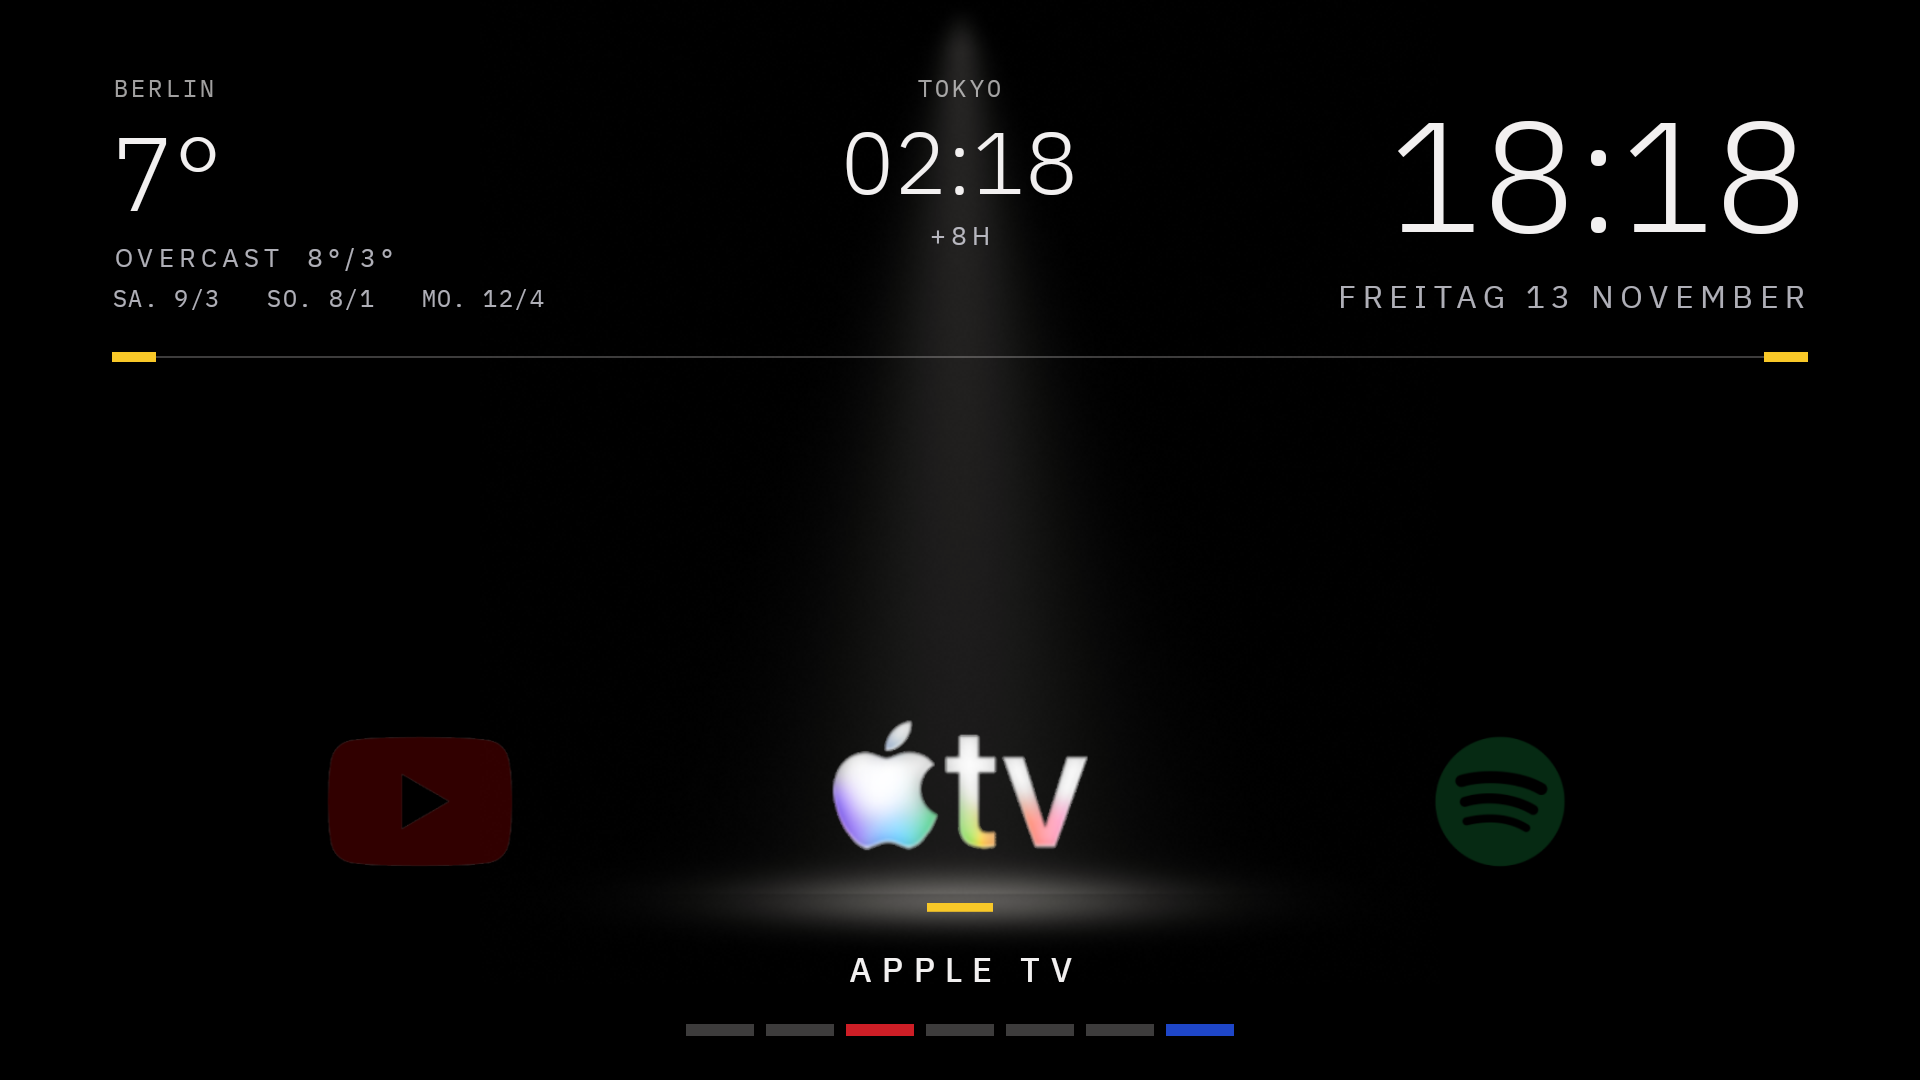
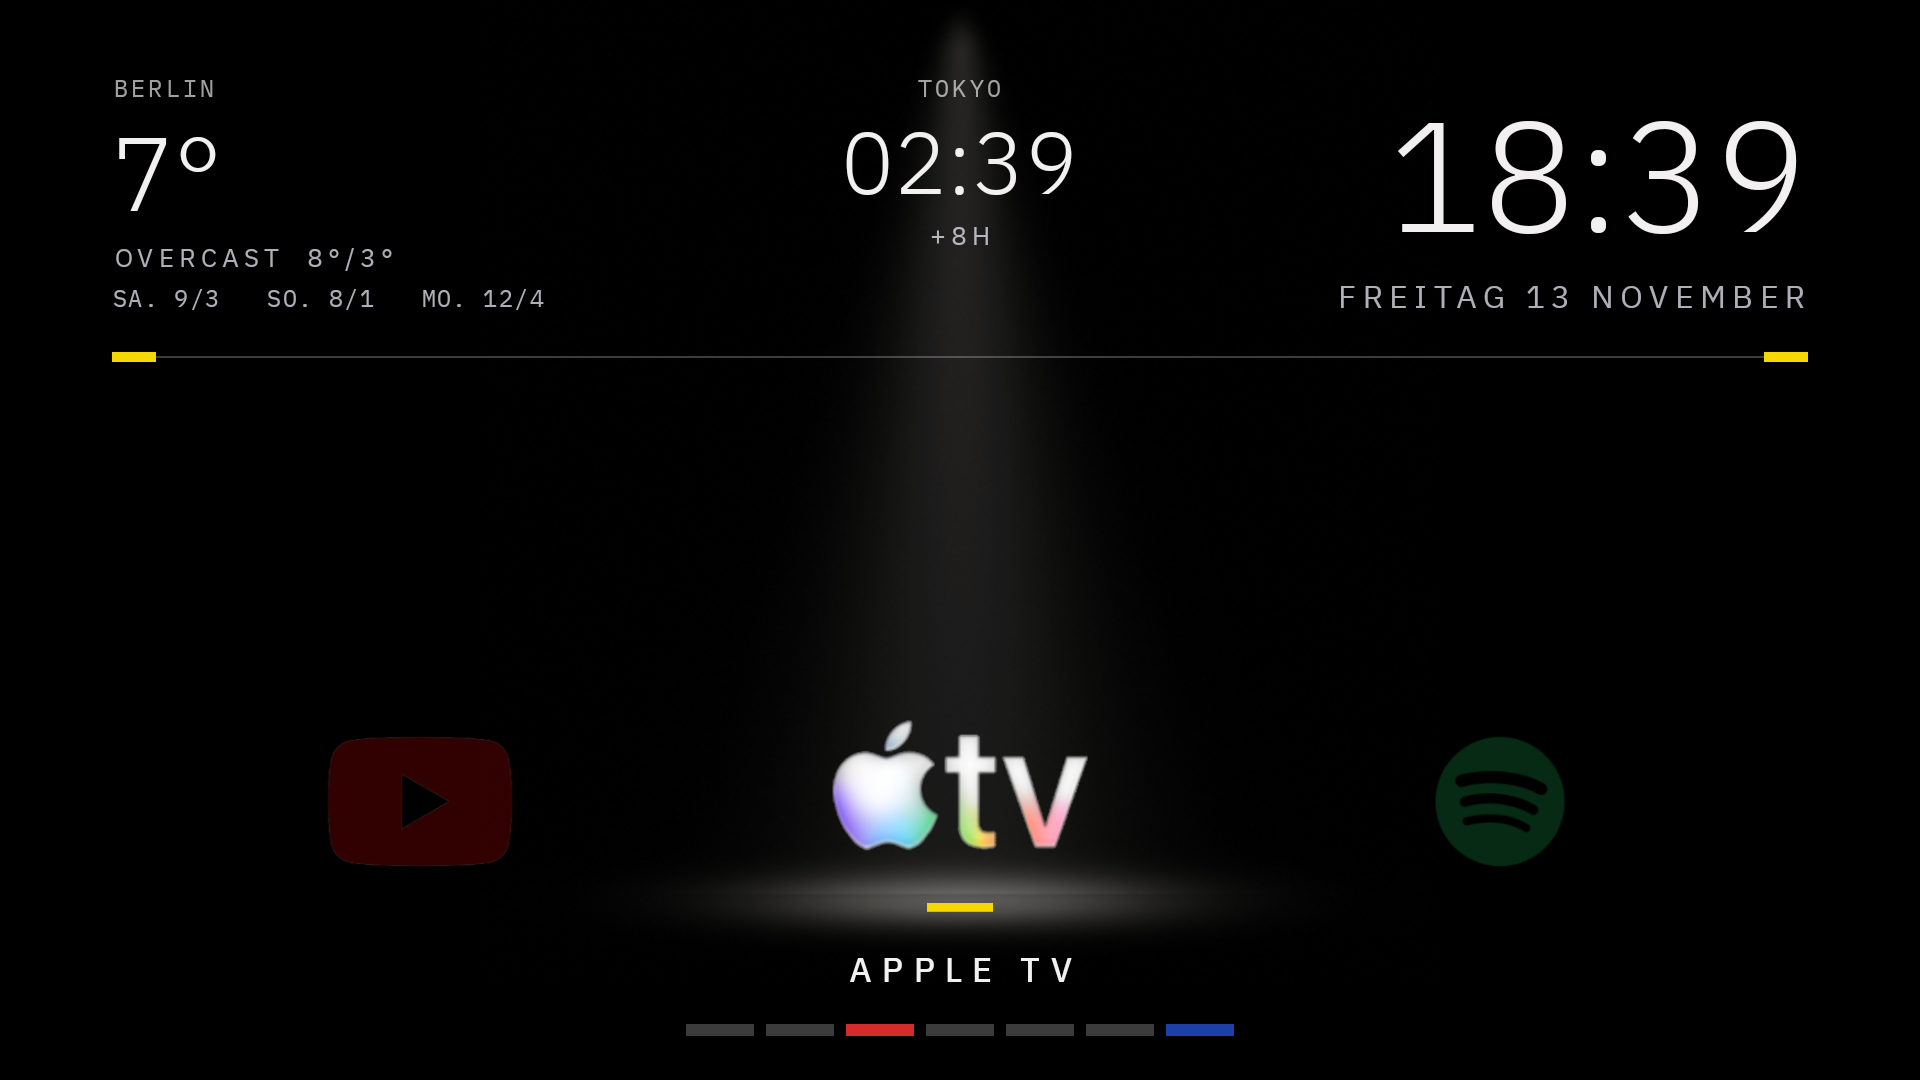
Use the Red and Blue Chair palette everywhere
Red #D62B2B, blue #1C3FA8, yellow #F5D800 and grid black #1A1A1A, defined once in
HomeActivity (C_RED/C_BLUE/C_YELLOW/C_GRID) and as CSS variables in the docs pages.
Mondrian tiles use grid black for the framework lines and the room's black for voids.
Docs and screenshot updated.

diff --git a/docs/demo.html b/docs/demo.html
@@ -10,7 +10,7 @@
 <style>
   :root {
     --bg: #000; --fg: #f2f0f0; --dim: rgba(242,240,240,.62); --line: rgba(242,240,240,.2);
-    --red: #cd1e26; --blue: #1e46c8; --yellow: #f8c828;
+    --red: #d62b2b; --blue: #1c3fa8; --yellow: #f5d800;
   }
   :root[data-theme="light"] { --bg: #f2f0f0; --fg: #111; --dim: rgba(17,17,17,.62); --line: rgba(17,17,17,.2); }
   @media (prefers-color-scheme: light) { :root:not([data-theme="dark"]) { --bg: #f2f0f0; --fg: #111; --dim: rgba(17,17,17,.62); --line: rgba(17,17,17,.2); } }
@@ -38,7 +38,7 @@
   #term i { width: 20px; height: 20px; margin-right: 12px; display: block; }
   #term span { font: 400 28px "IBM Plex Mono", monospace; letter-spacing: .08em; color: rgba(242,240,240,.78); padding-left: 8px; white-space: pre; }
   .rule { position: absolute; left: 112px; right: 112px; top: 356px; height: 2px; background: rgba(242,240,240,.25); }
-  .cap { position: absolute; top: 352px; width: 44px; height: 10px; background: #f8c828; }
+  .cap { position: absolute; top: 352px; width: 44px; height: 10px; background: #f5d800; }
 
   .host { position: absolute; display: flex; gap: 80px; align-items: flex-start; }
   .host.top-left { left: 112px; top: 72px; }
@@ -58,7 +58,7 @@
   .tile { position: absolute; top: 698px; width: 332px; height: 194px; transform-origin: 50% 100%; cursor: pointer; will-change: transform, opacity; }
   .tile svg { display: block; width: 332px; height: 194px; }
   .tile .art { position: absolute; inset: 0; }
-  .tile .tab { position: absolute; left: 136px; top: 204px; width: 60px; height: 8px; background: #f8c828; }
+  .tile .tab { position: absolute; left: 136px; top: 204px; width: 60px; height: 8px; background: #f5d800; }
   #label { position: absolute; left: 0; right: 0; top: 944px; text-align: center; font: 500 34px/52px "IBM Plex Sans", sans-serif; letter-spacing: .3em; text-transform: uppercase; color: #f2f0f0; }
   #indicator { position: absolute; left: 0; right: 0; top: 1024px; height: 12px; display: flex; justify-content: center; }
   #indicator i { display: block; width: 68px; height: 12px; margin: 0 6px; background: rgba(242,240,240,.25); }
@@ -67,25 +67,25 @@
   #toast.on { opacity: 1; }
   #toast b { font: 300 84px/1.1 "IBM Plex Sans", sans-serif; letter-spacing: .05em; }
   #toast span { font: 400 26px "IBM Plex Mono", monospace; letter-spacing: .14em; color: rgba(242,240,240,.62); margin-top: 22px; }
-  #toast i { display: block; width: 60px; height: 8px; background: #f8c828; margin-bottom: 36px; }
+  #toast i { display: block; width: 60px; height: 8px; background: #f5d800; margin-bottom: 36px; }
 
   /* ---- widget editor (mirrors HomeActivity.editorMain / editorDetail; fully opaque, widgets stay underneath) ---- */
   #editor { position: absolute; inset: 0; background: #000; display: none; }
   #editor.on { display: block; }
   #etitle { position: absolute; left: 112px; top: 92px; font: 400 28px/36px "IBM Plex Mono", monospace; letter-spacing: .1em; color: rgba(242,240,240,.7); }
   #editor .erule { position: absolute; left: 112px; right: 112px; top: 176px; height: 2px; background: rgba(242,240,240,.25); }
-  #editor .ecap { position: absolute; left: 112px; top: 172px; width: 44px; height: 10px; background: #f8c828; }
+  #editor .ecap { position: absolute; left: 112px; top: 172px; width: 44px; height: 10px; background: #f5d800; }
   #elist { position: absolute; left: 112px; top: 208px; width: 1280px; height: 740px; overflow: hidden; }
   #ehint { position: absolute; left: 112px; bottom: 68px; font: 400 24px "IBM Plex Mono", monospace; letter-spacing: .1em; color: rgba(242,240,240,.5); white-space: pre; }
   .erow { display: flex; align-items: center; height: 96px; padding: 18px 36px 18px 0; cursor: pointer; }
-  .erow .bar { width: 8px; height: 60px; margin-right: 32px; background: #f8c828; visibility: hidden; flex: none; }
+  .erow .bar { width: 8px; height: 60px; margin-right: 32px; background: #f5d800; visibility: hidden; flex: none; }
   .erow .l { width: 380px; flex: none; font: 400 26px "IBM Plex Mono", monospace; letter-spacing: .14em; color: rgba(242,240,240,.6); }
   .erow .v { font: 300 44px/1.1 "IBM Plex Sans", sans-serif; color: #f2f0f0; opacity: .6; white-space: pre; }
   .erow.focus .bar { visibility: visible; } .erow.focus .l { color: #f2f0f0; } .erow.focus .v { opacity: 1; }
   #prompt { position: absolute; inset: 0; background: rgba(0,0,0,.97); display: none; }
   #prompt.on { display: block; }
   #prompt h3 { position: absolute; left: 112px; top: 300px; margin: 0; font: 400 28px "IBM Plex Mono", monospace; letter-spacing: .14em; color: rgba(242,240,240,.62); }
-  #prompt input { position: absolute; left: 112px; top: 360px; width: 1100px; background: transparent; border: 0; border-bottom: 6px solid #f8c828; color: #f2f0f0; font: 300 96px/1.2 "IBM Plex Sans", sans-serif; outline: none; padding: 0 0 8px; }
+  #prompt input { position: absolute; left: 112px; top: 360px; width: 1100px; background: transparent; border: 0; border-bottom: 6px solid #f5d800; color: #f2f0f0; font: 300 96px/1.2 "IBM Plex Sans", sans-serif; outline: none; padding: 0 0 8px; }
   #prompt p { position: absolute; left: 112px; top: 560px; width: 1300px; margin: 0; font: 400 24px/1.6 "IBM Plex Mono", monospace; letter-spacing: .06em; color: rgba(242,240,240,.55); }
 
   /* ---- page chrome under the stage ---- */
@@ -128,7 +128,7 @@
     <div class="stage" id="stage" tabindex="0" role="application" aria-label="RietveldTV home screen demo. Use the arrow keys, Enter and Escape.">
       <canvas id="light" width="480" height="492"></canvas>
       <div id="widgets"></div>
-      <div id="term"><i style="background:#cd1e26"></i><i style="background:#1e46c8"></i><i style="background:#f8c828"></i><span id="termText"></span></div>
+      <div id="term"><i style="background:#d62b2b"></i><i style="background:#1c3fa8"></i><i style="background:#f5d800"></i><span id="termText"></span></div>
       <div class="rule"></div><div class="cap" style="left:112px"></div><div class="cap" style="right:112px"></div>
       <div id="row"></div>
       <div id="label"></div>
@@ -198,7 +198,7 @@
   var STYLES = ['glyph', 'mono', 'plate'];
 
   // ------------------------------------------------------------------ placeholder apps: generic glyphs, no brand logos
-  var R = '#cd1e26', B = '#1e46c8', Y = '#f8c828', W = '#f2f0f0';
+  var R = '#d62b2b', B = '#1c3fa8', Y = '#f5d800', W = '#f2f0f0';
   function rect(x, y, w, h, c) { return '<rect x="' + x + '" y="' + y + '" width="' + w + '" height="' + h + '" fill="' + c + '"/>'; }
   function poly(c, pts) { return '<polygon fill="' + c + '" points="' + pts + '"/>'; }
   function line(c, sw) { return 'fill="none" stroke="' + c + '" stroke-width="' + sw + '"'; }
@@ -241,7 +241,7 @@
   // "Rietveld logos": every tile is ONE Mondrian panel tiled on a shared 100 x 60 grid with a constant black line between
   // cells (2.6 grid units), edges at the tile border flush. Cells are red, blue, yellow or dark paper (the stand-in for white);
   // one plane dominates and the hint of the app lives inside a single cell (see IconTile.renderAbstract).
-  var PAPER = '#202226', LINE = 2.6;
+  var PAPER = '#000000', FRAME = '#1a1a1a', LINE = 2.6;   // void cells are the room's black; the grid lines are framework black
   function cell(c, x1, y1, x2, y2) {
     var h = LINE / 2, a = x1 <= 0 ? 0 : x1 + h, b = y1 <= 0 ? 0 : y1 + h, d = x2 >= 100 ? 100 : x2 - h, e = y2 >= 60 ? 60 : y2 - h;
     return rect((a * 3.32).toFixed(2), (b * 194 / 60).toFixed(2), ((d - a) * 3.32).toFixed(2), ((e - b) * 194 / 60).toFixed(2), c);
@@ -282,8 +282,8 @@
                { name: 'Widgets', kind: 'widgets' }, { name: 'Settings', kind: 'settings' }];
   function tileSvg(t) {
     if (t.kind) return svg(SYMBOL[t.name]);                                   // bare plus / bare gear, always off-white
-    if (state.rietveld) return svg((ABSTRACT[t.name] || function () { return abstractFallback(t.name); })());                       // full Mondrian tile
-    if (state.iconStyle === 'plate') return svg(rect(0, 0, 332, 194, '#18191b') + GLYPH[t.name](false));
+    if (state.rietveld) return svg(rect(0, 0, 332, 194, FRAME) + (ABSTRACT[t.name] || function () { return abstractFallback(t.name); })());                       // full Mondrian tile
+    if (state.iconStyle === 'plate') return svg(rect(0, 0, 332, 194, '#1a1a1a') + GLYPH[t.name](false));
     return svg(GLYPH[t.name](state.iconStyle === 'mono'));
   }
 
@@ -373,7 +373,7 @@
     if (!raf) raf = requestAnimationFrame(step);
     labelEl.textContent = TILES[i].name;
     var segs = indEl.children;
-    for (var k = 0; k < segs.length; k++) segs[k].style.background = k === i ? '#cd1e26' : (k === segs.length - 1 ? '#1e46c8' : 'rgba(242,240,240,.25)');
+    for (var k = 0; k < segs.length; k++) segs[k].style.background = k === i ? '#d62b2b' : (k === segs.length - 1 ? '#1c3fa8' : 'rgba(242,240,240,.25)');
     if (changed) live.textContent = 'Focused: ' + TILES[i].name + ' (' + (i + 1) + ' of ' + TILES.length + ')';
   }
 

diff --git a/docs/install.html b/docs/install.html
@@ -8,7 +8,7 @@
 <link rel="preconnect" href="https://fonts.googleapis.com">
 <link rel="stylesheet" href="https://fonts.googleapis.com/css2?family=IBM+Plex+Mono:wght@400&family=IBM+Plex+Sans:wght@300;400;500&display=swap">
 <style>
-  :root { --bg:#000; --fg:#f2f0f0; --dim:rgba(242,240,240,.62); --line:rgba(242,240,240,.2); --red:#cd1e26; --blue:#1e46c8; --yellow:#f8c828; }
+  :root { --bg:#000; --fg:#f2f0f0; --dim:rgba(242,240,240,.62); --line:rgba(242,240,240,.2); --red:#d62b2b; --blue:#1c3fa8; --yellow:#f5d800; }
   :root[data-theme="light"] { --bg:#f2f0f0; --fg:#111; --dim:rgba(17,17,17,.62); --line:rgba(17,17,17,.2); }
   @media (prefers-color-scheme: light) { :root:not([data-theme="dark"]) { --bg:#f2f0f0; --fg:#111; --dim:rgba(17,17,17,.62); --line:rgba(17,17,17,.2); } }
   * { box-sizing: border-box; }

diff --git a/docs/index.html b/docs/index.html
@@ -10,7 +10,7 @@
 <style>
   :root {
     --bg: #000; --fg: #f2f0f0; --dim: rgba(242,240,240,.62); --line: rgba(242,240,240,.2);
-    --red: #cd1e26; --blue: #1e46c8; --yellow: #f8c828;
+    --red: #d62b2b; --blue: #1c3fa8; --yellow: #f5d800;
   }
   :root[data-theme="light"] { --bg: #f2f0f0; --fg: #111; --dim: rgba(17,17,17,.62); --line: rgba(17,17,17,.2); }
   @media (prefers-color-scheme: light) { :root:not([data-theme="dark"]) { --bg: #f2f0f0; --fg: #111; --dim: rgba(17,17,17,.62); --line: rgba(17,17,17,.2); } }

diff --git a/app/src/main/java/dev/oliver/home/HomeActivity.java b/app/src/main/java/dev/oliver/home/HomeActivity.java
@@ -42,6 +42,10 @@ import java.util.Locale;
 
 public class HomeActivity extends Activity {
 
+    /** The palette, taken from the Red and Blue Chair: backrest red, seat blue, rail-end yellow, framework black. */
+    static final int C_RED = 0xFFD62B2B, C_BLUE = 0xFF1C3FA8, C_YELLOW = 0xFFF5D800, C_GRID = 0xFF1A1A1A;
+
+
     private Config config = new Config();
     private final java.util.List<Widgets.Widget> widgets = new ArrayList<>();
     private FrameLayout rootView;
@@ -95,7 +99,7 @@ public class HomeActivity extends Activity {
         LinearLayout term = new LinearLayout(this);
         term.setOrientation(LinearLayout.HORIZONTAL);
         term.setGravity(Gravity.CENTER_VERTICAL);
-        int[] acc = {Color.rgb(205, 30, 38), Color.rgb(30, 70, 200), Color.rgb(248, 200, 40)};
+        int[] acc = {C_RED, C_BLUE, C_YELLOW};
         for (int col : acc) {
             View sq = new View(this);
             sq.setBackgroundColor(col);
@@ -120,7 +124,7 @@ public class HomeActivity extends Activity {
         root.addView(rule, rp);
         for (int side = 0; side < 2; side++) {
             View cap = new View(this);
-            cap.setBackgroundColor(Color.rgb(248, 200, 40));
+            cap.setBackgroundColor(C_YELLOW);
             FrameLayout.LayoutParams capLp = new FrameLayout.LayoutParams(px(22), px(5),
                     Gravity.TOP | (side == 0 ? Gravity.START : Gravity.END));
             capLp.setMargins(px(56), px(176), px(56), 0);
@@ -290,8 +294,8 @@ public class HomeActivity extends Activity {
                 View f = row.getFocusedChild() != null ? row.getFocusedChild() : row.getChildAt(0);
                 int idx = row.indexOfChild(f), n = indicator.getChildCount();
                 for (int k = 0; k < n; k++) {
-                    indicator.getChildAt(k).setBackgroundColor(k == idx ? Color.rgb(205, 30, 38)
-                            : (config.showSettings && k == n - 1) ? Color.rgb(30, 70, 200) : 0x40F2F0F0);
+                    indicator.getChildAt(k).setBackgroundColor(k == idx ? C_RED
+                            : (config.showSettings && k == n - 1) ? C_BLUE : 0x40F2F0F0);
                 }
                 if (label.getText().length() == 0 && f instanceof IconTile) label.setText(((IconTile) f).title.toUpperCase(Locale.getDefault()));
             }
@@ -373,8 +377,8 @@ public class HomeActivity extends Activity {
                 dial();
                 int idx = row.indexOfChild(v), n = indicator.getChildCount();
                 for (int k = 0; k < n; k++) {
-                    indicator.getChildAt(k).setBackgroundColor(k == idx ? Color.rgb(205, 30, 38)
-                            : (config.showSettings && k == n - 1) ? Color.rgb(30, 70, 200) : 0x40F2F0F0);
+                    indicator.getChildAt(k).setBackgroundColor(k == idx ? C_RED
+                            : (config.showSettings && k == n - 1) ? C_BLUE : 0x40F2F0F0);
                 }
             }
         });
@@ -479,7 +483,7 @@ public class HomeActivity extends Activity {
             Bitmap b = Bitmap.createBitmap(fw, fh, Bitmap.Config.ARGB_8888);
             Canvas c = new Canvas(b);
             RectF r = new RectF(0, 0, fw, fh);
-            p.setColor(Color.rgb(24, 25, 27));
+            p.setColor(C_GRID);
             c.drawRect(r, p);
             if (art instanceof android.graphics.drawable.AdaptiveIconDrawable) {
                 android.graphics.drawable.AdaptiveIconDrawable ad = (android.graphics.drawable.AdaptiveIconDrawable) art;
@@ -564,7 +568,7 @@ public class HomeActivity extends Activity {
 
         // ---- Rietveld-style stand-ins: a full Mondrian tile of flat red / blue / yellow planes with black gaps between them,
         // arranged to hint at the original logo. Coordinates are on a 100 x 60 grid that fills the whole tile.
-        private static final int RED = 0xFFCD1E26, BLUE = 0xFF1E46C8, YELLOW = 0xFFF8C828;
+        private static final int RED = C_RED, BLUE = C_BLUE, YELLOW = C_YELLOW;
 
         private void plane(Canvas c, Paint q, float sx, float sy, int color, float... pts) {
             Path pa = new Path();
@@ -578,7 +582,7 @@ public class HomeActivity extends Activity {
 
         private float[] box(float x1, float y1, float x2, float y2) { return new float[]{x1, y1, x2, y1, x2, y2, x1, y2}; }
 
-        private static final int PAPER = 0xFF202226;      // the "empty" cells: dark neutral, where Mondrian would use white
+        private static final int PAPER = 0xFF000000;      // the "empty" cells are voids: the room's black shows through the framework
         private static final float LINE = 2.6f;           // black line width in grid units, identical everywhere
 
         /** A cell between grid lines. Edges that touch the tile border stay flush, interior edges leave half a line each. */
@@ -596,6 +600,7 @@ public class HomeActivity extends Activity {
         private Bitmap renderAbstract() {
             Bitmap out = Bitmap.createBitmap(fw, fh, Bitmap.Config.ARGB_8888);
             Canvas c = new Canvas(out);
+            c.drawColor(C_GRID);                              // the framework: grid black shows between the planes
             Paint q = new Paint(Paint.ANTI_ALIAS_FLAG);
             float sx = fw / 100f, sy = fh / 60f;
             switch (pkg) {
@@ -707,7 +712,7 @@ public class HomeActivity extends Activity {
             c.drawBitmap(content, x0, y0, p);
             p.setAlpha(255);
             // the yellow end-cut tab, only on the lit tile
-            p.setColor(Color.argb(Math.round(255 * L), 248, 200, 40));
+            p.setColor((C_YELLOW & 0x00FFFFFF) | (Math.round(255 * L) << 24));
             float tx = x0 + (fw - px(30)) / 2f;
             c.drawRect(tx, y1 + px(5), tx + px(30), y1 + px(9), p);
         }
@@ -775,7 +780,7 @@ public class HomeActivity extends Activity {
         r.setClickable(true);
         r.setPadding(0, px(9), px(18), px(9));
         final View bar = new View(this);
-        bar.setBackgroundColor(Color.rgb(248, 200, 40));
+        bar.setBackgroundColor(C_YELLOW);
         bar.setVisibility(View.INVISIBLE);
         LinearLayout.LayoutParams bp = new LinearLayout.LayoutParams(px(4), px(30));
         bp.setMarginEnd(px(16));
@@ -822,7 +827,7 @@ public class HomeActivity extends Activity {
         rp.setMargins(px(56), px(88), px(56), 0);
         editor.addView(rule, rp);
         View cap = new View(this);
-        cap.setBackgroundColor(Color.rgb(248, 200, 40));
+        cap.setBackgroundColor(C_YELLOW);
         FrameLayout.LayoutParams cp = new FrameLayout.LayoutParams(px(22), px(5), Gravity.TOP | Gravity.START);
         cp.setMargins(px(56), px(86), 0, 0);
         editor.addView(cap, cp);

diff --git a/CLAUDE.md b/CLAUDE.md
@@ -23,7 +23,7 @@ Look at the screenshot before saying a visual change works. Check the first app,
 **Screenshot hook:** `.claude/settings.json` runs `scripts/hooks/refresh-screenshot.sh` after any Bash call that installs the APK. It refreshes `docs/screenshot-widgets.png` (used by the README and the project page) via `scripts/update-screenshots.sh`. Look at the new image, then commit and push it with the change. Run the script by hand if the hook did not fire.
 
 ## Design rules
-- Pure black background. Colour only as small accents: red `205,30,38`, blue `30,70,200`, yellow `248,200,40`.
+- Pure black background. Colour only as small accents, and only these four (from the Red and Blue Chair): red `#D62B2B` (backrest), blue `#1C3FA8` (seat), yellow `#F5D800` (rail ends), grid black `#1A1A1A` (framework). Defined once as `C_RED`, `C_BLUE`, `C_YELLOW`, `C_GRID` in `HomeActivity.java` and as `--red/--blue/--yellow` in the docs pages. Never hard-code another accent.
 - Fonts: IBM Plex Sans (light/regular/medium) and Plex Mono. No round, friendly fonts.
 - Icons are logo-only by default (`iconStyle: "glyph"`): no background plate, no gloss, no glass. Adaptive icons use their foreground layer, flat logo-on-colour icons have the backdrop keyed out. The lamp and one yellow end-cut tab mark focus.
 - Light should be smooth: compute gradients per pixel instead of stacking translucent layers.

diff --git a/docs/CUSTOMIZE-WITH-CLAUDE.md b/docs/CUSTOMIZE-WITH-CLAUDE.md
@@ -44,7 +44,7 @@ All drawing is in `app/src/main/java/dev/oliver/home/HomeActivity.java`. These a
 | Icon style | `iconStyle` in `config.json`: `glyph` (logo only, default), `mono` (one-colour themed icon, Android 13+), `plate` (whole icon) | "Switch the icons to mono." |
 | Spotlight | `SceneView.build` (`topHalf`, `botHalf`, intensity `0.15f`, pool `0.36f`) | "Make the beam narrower and warmer." |
 | Spacing and zoom | `dial()` and `tile()` margins | "Space the apps further apart, shrink the neighbours more." |
-| Colours | `Color.rgb(...)` accents: red `205,30,38`, blue `30,70,200`, yellow `248,200,40` | "Replace the yellow accents with orange." |
+| Colours | the four palette constants `C_RED #D62B2B`, `C_BLUE #1C3FA8`, `C_YELLOW #F5D800`, `C_GRID #1A1A1A` at the top of `HomeActivity.java` (and `--red/--blue/--yellow` in the docs pages) | "Replace the yellow accents with orange." |
 | Fonts | `app/src/main/assets/fonts` + `loadFonts()` | "Use Inter instead of IBM Plex. Download the OFL fonts." |
 | Wallpaper | `loadWallpaper()` (pure black by default) | "Use a very dark blue gradient instead of black." |
 

diff --git a/README.md b/README.md
@@ -7,6 +7,7 @@ Black room, one spotlight, flat rectangular app icons, a few quiet widgets. Insp
 
 **Try the interactive demo:** <https://oliverweissl.github.io/RietveldTV/demo.html> (once GitHub Pages is on), or open [`docs/demo.html`](docs/demo.html) locally in any browser. Use the arrow keys or the on-screen remote.
 
+- **The chair's palette, nothing else:** red `#D62B2B`, blue `#1C3FA8`, yellow `#F5D800` and grid black `#1A1A1A`, on a pure black room.
 - **No ads, no recommendations, no accounts, no tracking.** It only shows the apps you list.
 - **Flat icons under a spotlight.** Hard-edged rectangles in each app's own colours. The focused app is lit and gets a small yellow end-cut tab, like the painted ends of the Red and Blue Chair; the rest sink into the dark.
 - **Logo-only icons.** No background plates: each app is just its logo on the black. Optionally swap the company logos for abstract Mondrian-style tiles in red, blue and yellow that hint at the original (switch in the widget editor).
